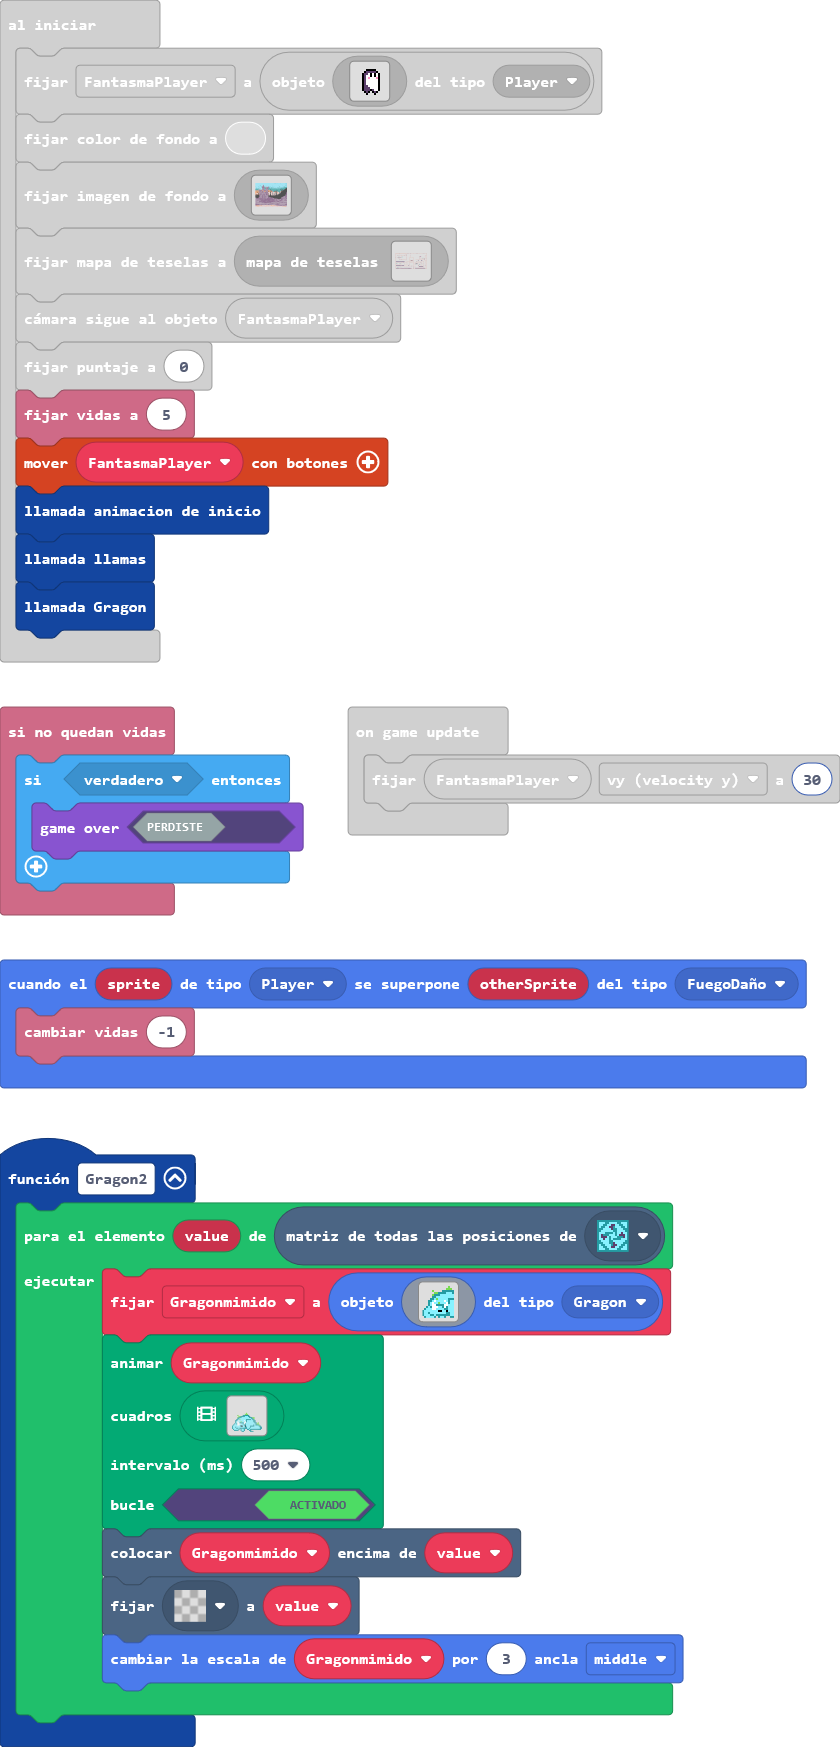
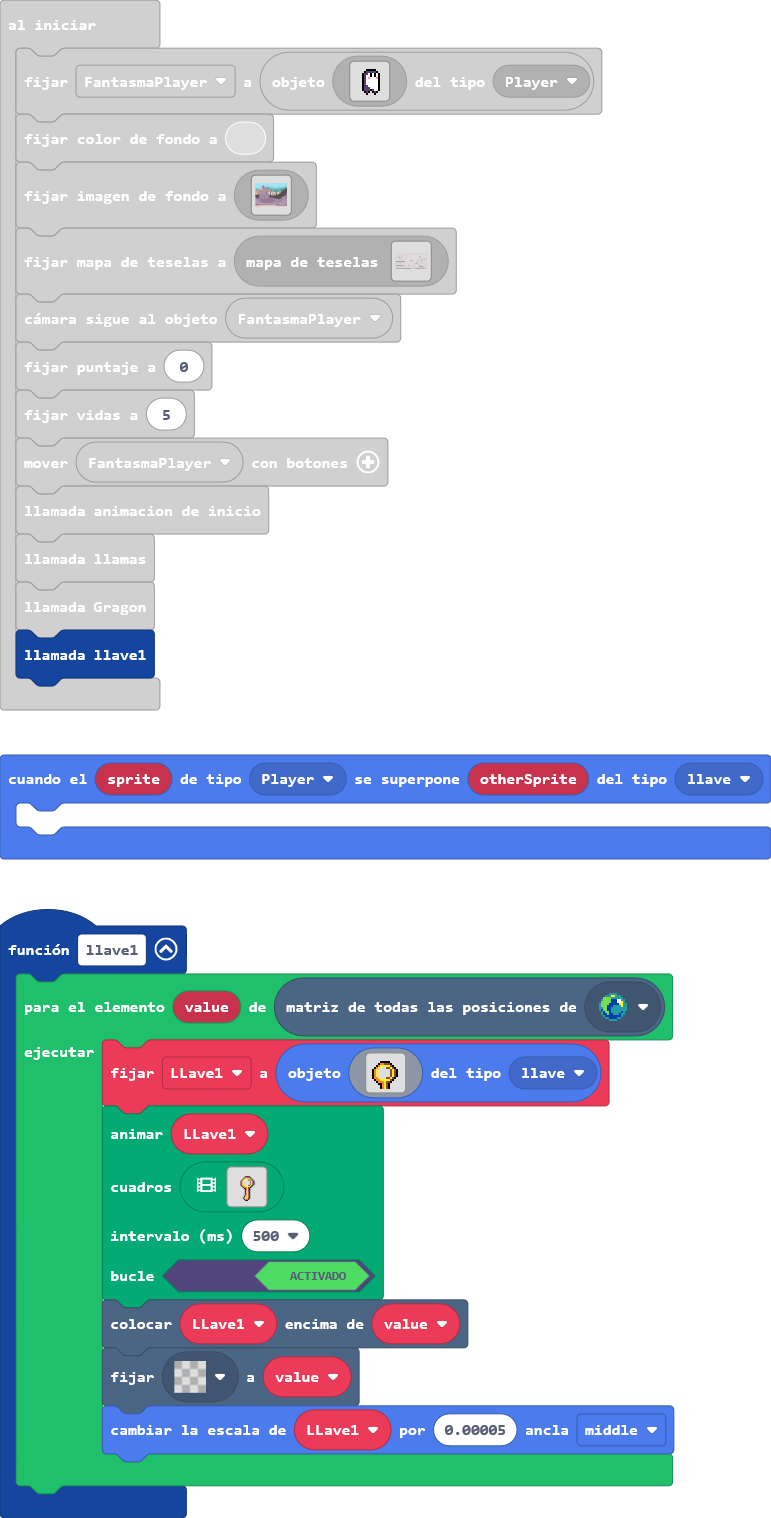
Actualizar main.blocks, main.ts

diff --git a/main.ts b/main.ts
@@ -1,6 +1,7 @@
 namespace SpriteKind {
     export const FuegoDaño = SpriteKind.create()
     export const Gragon = SpriteKind.create()
+    export const llave = SpriteKind.create()
 }
 controller.anyButton.onEvent(ControllerButtonEvent.Pressed, function () {
     if (true) {
@@ -403,6 +404,9 @@ controller.right.onEvent(ControllerButtonEvent.Pressed, function () {
         )
     }
 })
+sprites.onOverlap(SpriteKind.Player, SpriteKind.llave, function (sprite, otherSprite) {
+	
+})
 controller.left.onEvent(ControllerButtonEvent.Pressed, function () {
     if (true) {
         animation.runImageAnimation(
@@ -510,6 +514,192 @@ controller.A.onEvent(ControllerButtonEvent.Pressed, function () {
         FantasmaPlayer.vy = -150
     }
 })
+function llave1 () {
+    for (let value of tiles.getTilesByType(sprites.dungeon.collectibleBlueCrystal)) {
+        LLave1 = sprites.create(img`
+            . . . . . . . . . . . . . . . . 
+            . . . . . . . . . . . . . . . . 
+            . . . . . f f f f f . . . . . . 
+            . . . . f 4 4 e e e f . . . . . 
+            . . . f 4 5 5 5 5 5 e f . . . . 
+            . . f 4 5 . . . e e 5 e f . . . 
+            . f 4 5 . . . . . . e 5 e f . . 
+            . f 4 5 . . . . . . e 5 e f . . 
+            . f 4 5 . . . . . . e 5 e f . . 
+            . f 4 5 . . . . . . e 5 e f . . 
+            . f 4 4 5 . . . e e 5 e f . . . 
+            . . f 4 4 5 5 5 5 5 e f . . . . 
+            . . . f 4 4 4 5 e e f . . . . . 
+            . . . . f f 4 5 e f . . . . . . 
+            . . . . . f 4 5 e f . . . . . . 
+            . . . . . f 4 5 e f . . . . . . 
+            `, SpriteKind.llave)
+        animation.runImageAnimation(
+        LLave1,
+        [img`
+            ..............................
+            ..............................
+            ..............................
+            ..............................
+            ..............................
+            .............fffff............
+            ............f44eeef...........
+            ...........f455555ef..........
+            ..........f45...ee5ef.........
+            .........f45......e5ef........
+            .........f45......e5ef........
+            .........f45......e5ef........
+            .........f45......e5ef........
+            .........f445...ee5ef.........
+            ..........f4455555ef..........
+            ...........f4445eef...........
+            ............ff45ef............
+            .............f45ef............
+            .............f45ef............
+            .............f45ef............
+            .............f45ef............
+            .............f45ef............
+            .............f45ef............
+            ............f455ef............
+            ............f445ef............
+            ...........f4555ef............
+            ............f444f.............
+            .............fff..............
+            ..............................
+            ..............................
+            `,img`
+            ..............................
+            .............fffff............
+            ............f44eeef...........
+            ...........f455555ef..........
+            ..........f45...ee5ef.........
+            .........f45......e5ef........
+            .........f45......e5ef........
+            .........f45......e5ef........
+            .........f45......e5ef........
+            .........f445...ee5ef.........
+            ..........f4455555ef..........
+            ...........f4445eef...........
+            ............ff45ef............
+            .............f45ef............
+            .............f45ef............
+            .............f45ef............
+            .............f45ef............
+            .............f45ef............
+            .............f45ef............
+            ............f455ef............
+            ............f445ef............
+            ...........f4555ef............
+            ............f444f.............
+            .............fff..............
+            ..............................
+            ..............................
+            ..............................
+            ..............................
+            ..............................
+            ..............................
+            `,img`
+            .............fffff............
+            ............f44eeef...........
+            ...........f455555ef..........
+            ..........f45...ee5ef.........
+            .........f45......e5ef........
+            .........f45......e5ef........
+            .........f45......e5ef........
+            .........f45......e5ef........
+            .........f445...ee5ef.........
+            ..........f4455555ef..........
+            ...........f4445eef...........
+            ............ff45ef............
+            .............f45ef............
+            .............f45ef............
+            .............f45ef............
+            .............f45ef............
+            .............f45ef............
+            .............f45ef............
+            ............f455ef............
+            ............f445ef............
+            ...........f4555ef............
+            ............f444f.............
+            .............fff..............
+            ..............................
+            ..............................
+            ..............................
+            ..............................
+            ..............................
+            ..............................
+            ..............................
+            `,img`
+            ..............................
+            .............fffff............
+            ............f44eeef...........
+            ...........f455555ef..........
+            ..........f45...ee5ef.........
+            .........f45......e5ef........
+            .........f45......e5ef........
+            .........f45......e5ef........
+            .........f45......e5ef........
+            .........f445...ee5ef.........
+            ..........f4455555ef..........
+            ...........f4445eef...........
+            ............ff45ef............
+            .............f45ef............
+            .............f45ef............
+            .............f45ef............
+            .............f45ef............
+            .............f45ef............
+            .............f45ef............
+            ............f455ef............
+            ............f445ef............
+            ...........f4555ef............
+            ............f444f.............
+            .............fff..............
+            ..............................
+            ..............................
+            ..............................
+            ..............................
+            ..............................
+            ..............................
+            `,img`
+            ..............................
+            ..............................
+            ..............................
+            .............fffff............
+            ............f44eeef...........
+            ...........f455555ef..........
+            ..........f45...ee5ef.........
+            .........f45......e5ef........
+            .........f45......e5ef........
+            .........f45......e5ef........
+            .........f45......e5ef........
+            .........f445...ee5ef.........
+            ..........f4455555ef..........
+            ...........f4445eef...........
+            ............ff45ef............
+            .............f45ef............
+            .............f45ef............
+            .............f45ef............
+            .............f45ef............
+            .............f45ef............
+            .............f45ef............
+            ............f455ef............
+            ............f445ef............
+            ...........f4555ef............
+            ............f444f.............
+            .............fff..............
+            ..............................
+            ..............................
+            ..............................
+            ..............................
+            `],
+        500,
+        true
+        )
+        tiles.placeOnTile(LLave1, value)
+        tiles.setTileAt(value, assets.tile`transparency16`)
+        LLave1.changeScale(0.00005, ScaleAnchor.Middle)
+    }
+}
 function llamas () {
     for (let value of tiles.getTilesByType(sprites.dungeon.darkGroundCenter)) {
         Fuego = sprites.create(img`
@@ -982,6 +1172,7 @@ function animacion_de_inicio () {
 }
 let Gragonmimido: Sprite = null
 let Fuego: Sprite = null
+let LLave1: Sprite = null
 let FantasmaPlayer: Sprite = null
 FantasmaPlayer = sprites.create(img`
     . . . . . . . . . . . . . . . . 
@@ -1132,6 +1323,7 @@ controller.moveSprite(FantasmaPlayer)
 animacion_de_inicio()
 llamas()
 Gragon()
+llave1()
 game.onUpdate(function () {
     FantasmaPlayer.vy = 30
 })
